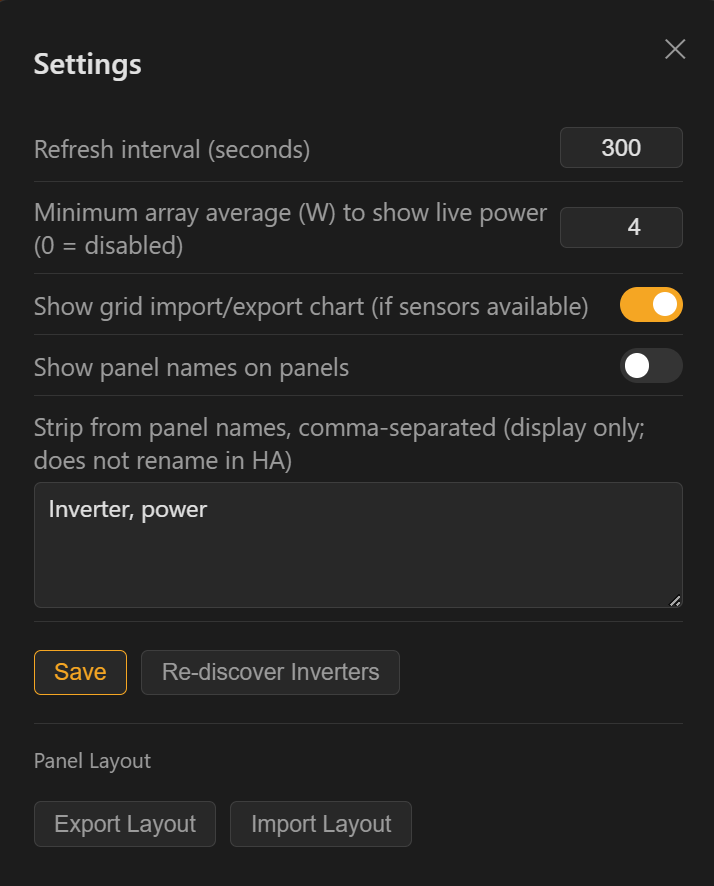
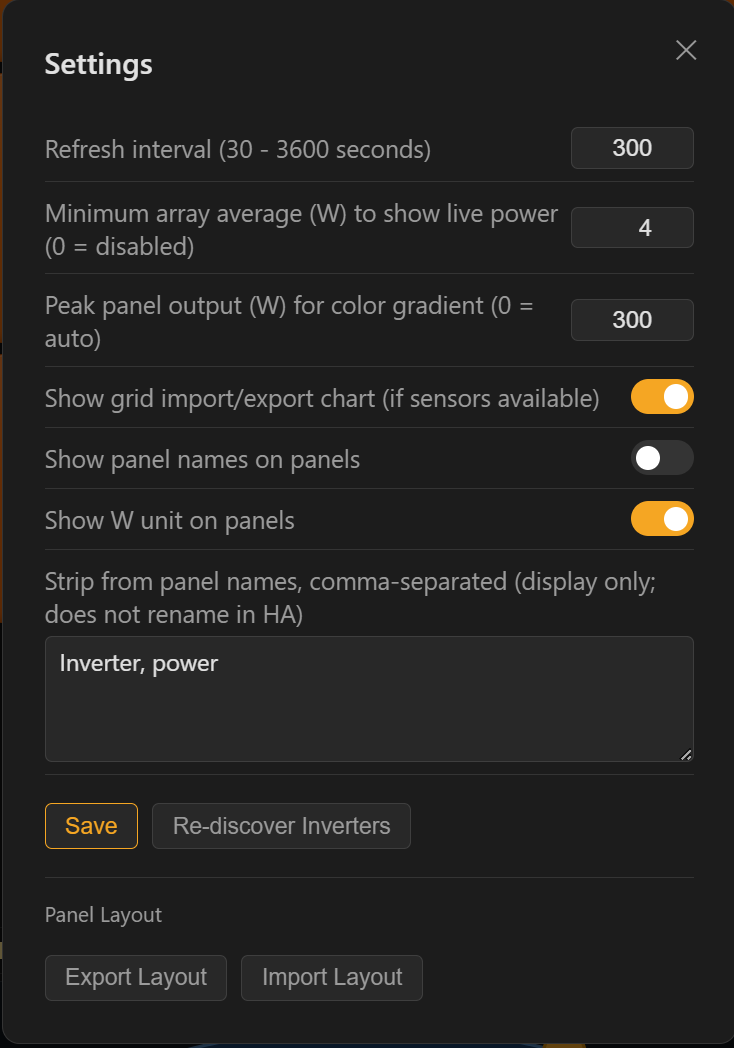
Doc and image updates

diff --git a/README.md b/README.md
@@ -46,7 +46,7 @@ Should work with any solar integration already configured in the Energy Dashboar
 
 ### Panel Grid
 - Auto-discovers all inverters and micro-inverters from the HA Energy Dashboard; no manual entity configuration required
-- Color-coded per-panel cards relative to the array average: green (90%+), yellow (70-89%), red (below 70%), gray (offline or unavailable)
+- Color-coded per-panel cards using a warm gradient from pale yellow (low output) to deep orange (peak output); absolute color reflects both relative performance within the array and the overall production level, so panels at dawn appear pale regardless of relative rank; gray indicates offline or unavailable
 - Live wattage display on each panel card
 - Today's energy (Wh) shown on each card, updated as the time slider moves
 - Click any panel card to open the panel detail modal:
@@ -177,7 +177,11 @@ After installation, two things will make the most difference:
 
 Open **Settings** (the gear icon in the header) and set the refresh interval to match your solar integration's polling frequency. The default is 5 minutes, which works well for Enhanced SunPower and similar integrations whose hardware updates every 5 minutes. If your integration polls more frequently, lower the value; the minimum is 30 seconds and the maximum is 3600 seconds (1 hour). Setting it shorter than your integration actually refreshes only adds load with no benefit.
 
-### 2. Set Up Your Panel Layout
+### 2. Set Your Panel Wattage
+
+Open **Settings** and enter the rated wattage of your panels in the **Peak panel output (W)** field. The default is 300W, which works well for common residential panels, but if yours are 360W, 400W, or another rating, entering the correct value gives you a more accurate color gradient. Solar Sentinel scales full orange to approximately 95% of the rated value, which reflects the real-world peak you will actually see rather than the theoretical STC rating. Set to 0 to use automatic scaling based on the live array average.
+
+### 3. Set Up Your Panel Layout
 
 > **Tip before you start:** Many solar integrations prefix every panel name with the brand or device type, leaving you with names like "SunPower Inverter E00100000000001" on every card. Open **Settings** and add those repeated words to the **Strip from panel names** field (comma-separated) before you begin placing panels. The cards will show just the short unique part of each name, making it much easier to identify panels during layout. This is display-only; nothing is renamed in Home Assistant.
 
@@ -201,6 +205,7 @@ All configuration is done within the add-on UI via the Settings modal (the gear 
 | Setting | Default | Description |
 |---------|---------|-------------|
 | Refresh interval | 5 min | How often Solar Sentinel polls HA for current panel states (minimum 30 seconds, maximum 3600 seconds / 1 hour). Set this to match your integration's polling frequency. For SunPower and other integrations limited by inverter firmware, the hardware typically updates every 5 minutes, so polling more frequently returns the same data. Integrations that support faster sensor updates can use a lower value. |
+| Peak panel output | 300 W | The rated wattage of your solar panels (e.g. 300, 360, 400). Used to scale the color gradient so full orange appears at approximately 95% of this value, matching real-world peak output. Set to 0 to scale automatically based on the live array average instead. |
 | Minimum array average | 5 W | When the array-wide average wattage is below this value, all panel wattage is displayed as 0 W. Prevents stale cached readings from appearing as real production (common with integrations that hold the last known value overnight). Set to 0 to always show the raw value from HA. |
 | Show grid chart | on | Shows the grid import/export chart to the left of the sun arc when grid sensors are configured in the HA Energy Dashboard. Toggle off to hide the panel even when sensors are available. |
 | Show names on panels | on | Shows or hides the panel name text on each card in the live view. Toggle off for a cleaner look showing only wattage and energy. Names are always shown in the layout editor regardless of this setting. |
